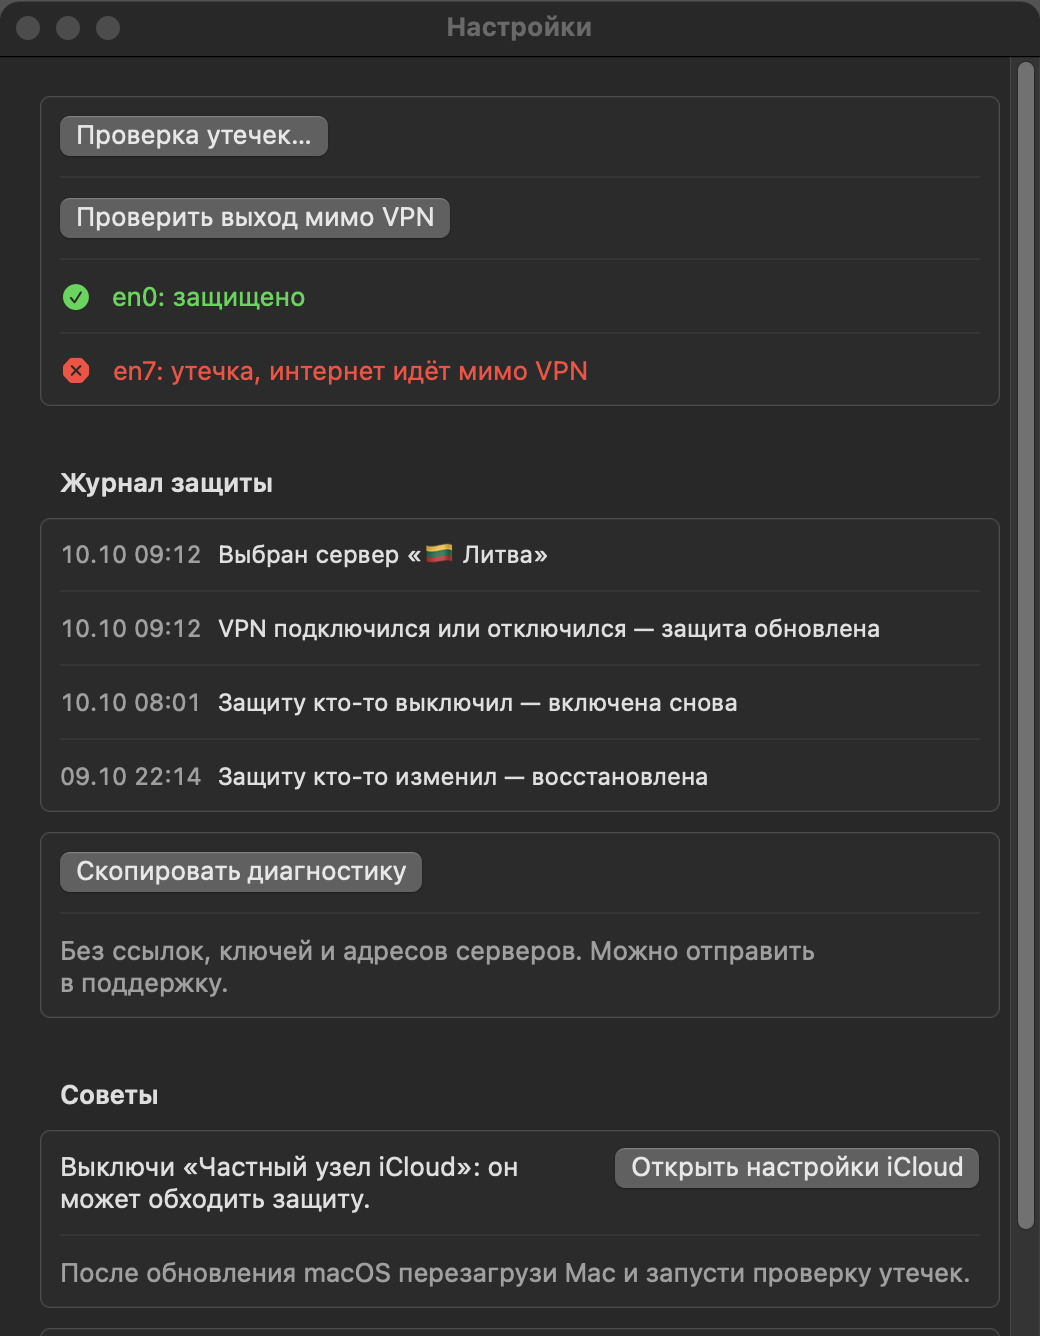
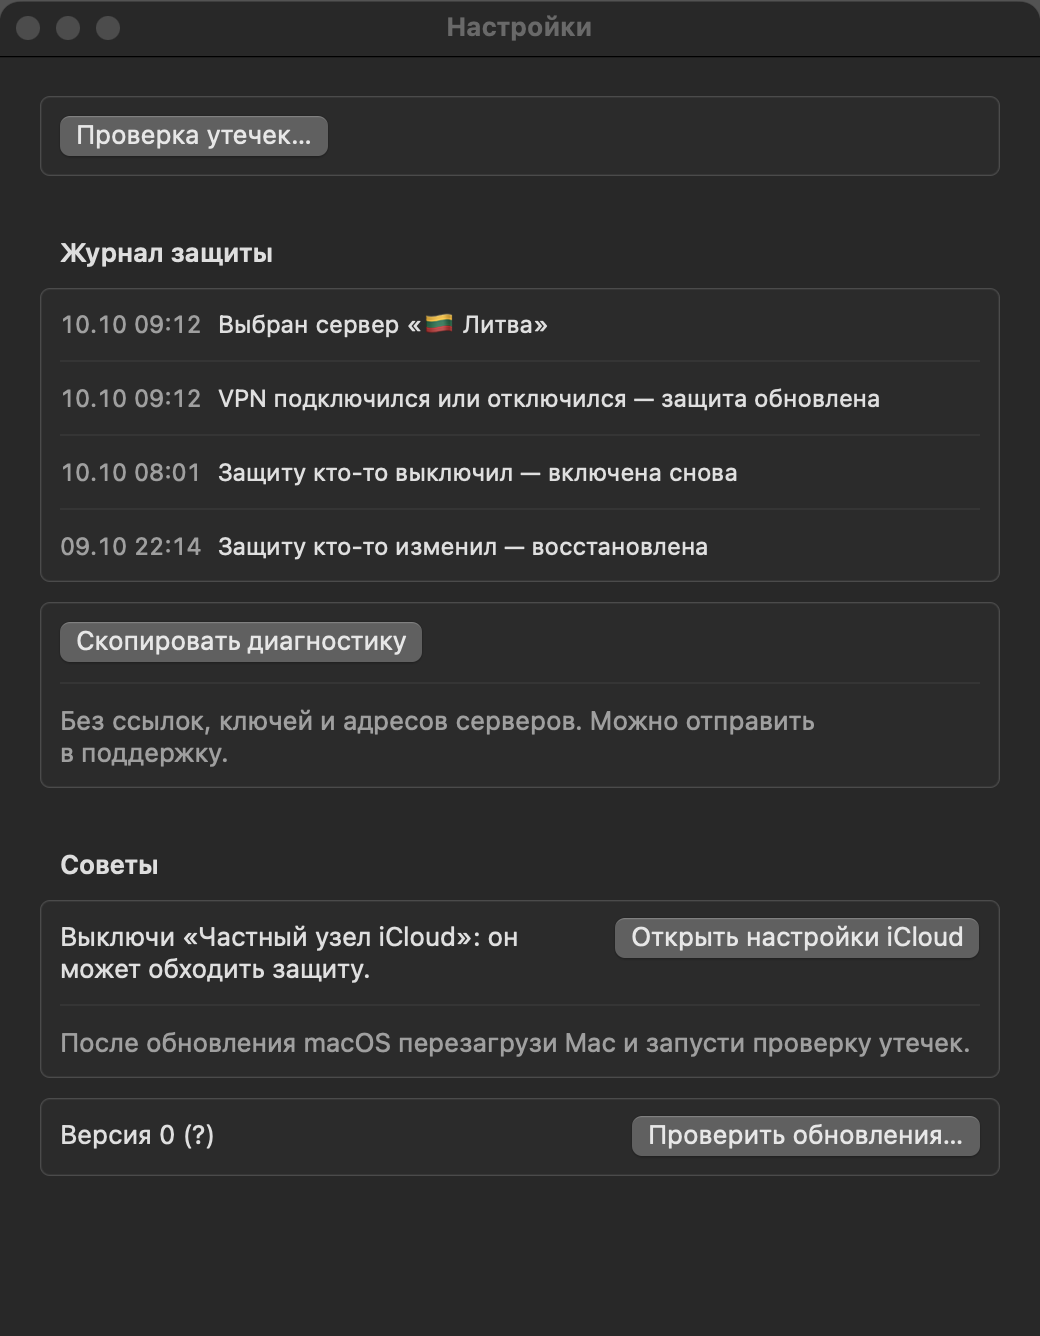
One leak test: the direct-exit probe joins the verdict (С9)
The probe of the physical interfaces moves from Settings into «Проверка
утечек» and runs while protection is on; an interface that reaches the
internet directly is a leak in the same verdict. Settings → Помощь keeps
one button that opens the leak test.

diff --git a/App/KillSwitchControl.swift b/App/KillSwitchControl.swift
@@ -48,9 +48,6 @@ final class KillSwitchControl {
     /// Moves on with every refresh while connecting, so «Подключение затянулось» shows up in time.
     private(set) var clock = Date()
     private(set) var events: [String] = []
-    private(set) var leakResults: [LeakResult] = []
-    private(set) var externalIP: String?
-    private(set) var leakRunning = false
     /// Our own VPN core (mihomo run by the root daemon), see `ks core`.
     private(set) var coreInstalled = false
     private(set) var coreConfigured = false
@@ -76,11 +73,6 @@ final class KillSwitchControl {
     private(set) var testing: Set<String> = []
     static let allGroupsKey = "\u{0}all"
 
-    struct LeakResult: Identifiable {
-        let interface: String
-        let leaked: Bool
-        var id: String { interface }
-    }
     var launchAtLogin: Bool {
         get { SMAppService.mainApp.status == .enabled }
         set {
@@ -773,28 +765,21 @@ final class KillSwitchControl {
         events = Array(Self.readLines("/Library/KillSwitch/events.log").suffix(15))
     }
 
-    /// Tries to reach 1.1.1.1 straight through the physical interfaces, as an ordinary user.
-    /// A reply means the filter has a hole.
-    func checkLeak() {
-        guard !leakRunning else { return }
-        leakRunning = true
-        leakResults = []
-        Task {
-            var interfaces = ["en0"]
-            let route = await Self.exec("/sbin/route", ["-n", "get", "default"]).output
-            if let match = route.firstMatch(of: /interface:[ \t]*([A-Za-z0-9]+)/) {
-                let name = String(match.1)
-                if !name.hasPrefix("utun") && !interfaces.contains(name) { interfaces.append(name) }
-            }
-            for name in interfaces {
-                let result = await Self.exec("/usr/bin/curl", ["-s", "-m", "6", "-o", "/dev/null", "--interface", name, "https://1.1.1.1"])
-                leakResults.append(LeakResult(interface: name, leaked: result.status == 0))
-            }
-            let ip = await Self.exec("/usr/bin/curl", ["-s", "-m", "6", "https://api.ipify.org"]).output
-            externalIP = Self.isPlainIP(ip) ? ip : nil
-            refreshEvents()
-            leakRunning = false
+    /// Part of «Проверка утечек» while protection is on: tries to reach 1.1.1.1 straight through
+    /// the physical interfaces, as an ordinary program. The interfaces that answered are a hole.
+    func probeDirectExits() async -> [String] {
+        var interfaces = ["en0"]
+        let route = await Self.exec("/sbin/route", ["-n", "get", "default"]).output
+        if let match = route.firstMatch(of: /interface:[ \t]*([A-Za-z0-9]+)/) {
+            let name = String(match.1)
+            if !name.hasPrefix("utun") && !interfaces.contains(name) { interfaces.append(name) }
         }
+        var open: [String] = []
+        for name in interfaces {
+            let result = await Self.exec("/usr/bin/curl", ["-s", "-m", "6", "-o", "/dev/null", "--interface", name, "https://1.1.1.1"])
+            if result.status == 0 { open.append(name) }
+        }
+        return open
     }
 
     private func listenForWidget() {

diff --git a/App/Core/LeakCheck.swift b/App/Core/LeakCheck.swift
@@ -95,9 +95,13 @@ enum LeakCheck {
         var ipv6: Address?
         var resolvers: [Resolver]
         var direct: Direct?
+        /// Physical interfaces through which an ordinary program reached the internet directly
+        /// while protection was on (LeakTester probes them only then).
+        var directExits: [String] = []
     }
 
     enum Finding: Equatable {
+        case directExit([String])
         case realIPv4
         case ipv4Mismatch([String])
         case ipv6Leak(String)
@@ -109,13 +113,14 @@ enum LeakCheck {
 
         var isLeak: Bool {
             switch self {
-            case .realIPv4, .ipv4Mismatch, .ipv6Leak, .dnsLeak: true
+            case .directExit, .realIPv4, .ipv4Mismatch, .ipv6Leak, .dnsLeak: true
             case .ipv6Unexpected, .dnsUnknown, .offline, .vpnOff: false
             }
         }
 
         var text: String {
             switch self {
+            case .directExit(let names): "Программы могут выйти в интернет мимо VPN (\(names.joined(separator: ", "))): защита пропускает их напрямую."
             case .realIPv4: "Сайты видят твой настоящий адрес, а не адрес VPN."
             case .ipv4Mismatch(let ips): "Два сервиса видят разные адреса (\(ips.joined(separator: ", "))): часть трафика идёт другим путём."
             case .ipv6Leak(let ip): "IPv6 идёт мимо VPN: сайты видят адрес твоей сети \(ip)."
@@ -148,16 +153,17 @@ enum LeakCheck {
     static func verdict(_ input: Input) -> Verdict {
         var seen: [String] = []
         for case let ip? in input.ipv4 where !seen.contains(ip) { seen.append(ip) }
+        let exits: [Finding] = input.directExits.isEmpty ? [] : [.directExit(input.directExits)]
         if seen.isEmpty, input.exit == nil, input.ipv6 == nil, input.resolvers.isEmpty {
-            return Verdict(findings: [.offline])
+            return Verdict(findings: exits + [.offline])
         }
         guard input.vpnConnected else {
             let home = Direct(ipv4: seen.first ?? input.exit?.ip, ipv6: input.ipv6?.ip,
                               org: input.exit?.org ?? input.ipv6?.org)
-            return Verdict(findings: [.vpnOff], home: home)
+            return Verdict(findings: exits + [.vpnOff], home: home)
         }
         let direct = input.direct
-        var findings: [Finding] = []
+        var findings = exits
         if let home = direct?.ipv4, seen.contains(home) || input.exit?.ip == home { findings.append(.realIPv4) }
         if seen.count > 1 { findings.append(.ipv4Mismatch(seen)) }
 

diff --git a/App/LeakTester.swift b/App/LeakTester.swift
@@ -41,10 +41,17 @@ final class LeakTester {
     }
 
     /// `vpnConnected`: read when the check starts (any VPN tunnel up, ours or another client's).
-    func run(vpnConnected: Bool) async {
+    /// `probe`: the direct-exit check (KillSwitchControl.probeDirectExits), passed only while
+    /// protection is on — then nothing may get out around the VPN.
+    func run(vpnConnected: Bool, probe: (() async -> [String])? = nil) async {
         guard !running else { return }
         running = true
         defer { running = false; step = "" }
+        var directExits: [String] = []
+        if let probe {
+            step = "Проверяю выход мимо VPN…"
+            directExits = await probe()
+        }
         let session = URLSession(configuration: Self.configuration)
         defer { session.finishTasksAndInvalidate() }
 
@@ -61,7 +68,7 @@ final class LeakTester {
         let exit = exit4 ?? report?.exit
 
         let input = LeakCheck.Input(vpnConnected: vpnConnected, ipv4: [ipv4a, exit4?.ip], exit: exit, ipv6: ipv6,
-                                    resolvers: report?.resolvers ?? [], direct: home)
+                                    resolvers: report?.resolvers ?? [], direct: home, directExits: directExits)
         let verdict = LeakCheck.verdict(input)
         if let learnt = verdict.home { saveHome(learnt) }
         result = Result(verdict: verdict, ipv4: [("ipify.org", ipv4a), ("mullvad.net", exit4?.ip)], exit: exit,

diff --git a/App/LeakTestView.swift b/App/LeakTestView.swift
@@ -13,7 +13,10 @@ struct LeakTestView: View {
                 VStack(spacing: 12) {
                     verdictHeader
                     Button {
-                        Task { await tester.run(vpnConnected: control.vpnUp) }
+                        Task {
+                            await tester.run(vpnConnected: control.vpnUp,
+                                             probe: control.state == .on ? { await control.probeDirectExits() } : nil)
+                        }
                     } label: {
                         Text(tester.running ? "Проверяю…" : "Проверить").frame(maxWidth: .infinity)
                     }
@@ -127,7 +130,7 @@ struct LeakTestView: View {
             Image(systemName: "shield.lefthalf.filled").font(.system(size: 44)).foregroundStyle(.secondary)
                 .accessibilityHidden(true)
             Text("Проверка утечек").font(.title2.bold())
-            Text("Проверит, какой адрес видят сайты по IPv4 и IPv6 и кто узнаёт для тебя адреса сайтов.")
+            Text("Проверит, может ли что-то выйти мимо VPN, какой адрес видят сайты и кто узнаёт для тебя адреса сайтов.")
                 .font(.callout).foregroundStyle(.secondary).multilineTextAlignment(.center)
                 .fixedSize(horizontal: false, vertical: true)
         }

diff --git a/docs/ux/tools/Render.swift b/docs/ux/tools/Render.swift
@@ -429,6 +429,17 @@ func main() {
         w.tester.homeDate = Date()
         leak("34-leaktest-vpn-off", w, height: 760)
     }
+    do { // 35 the direct-exit probe found a hole while protection is on
+        let w = World()
+        w.tester.home = LeakCheck.Direct(ipv4: "5.6.7.112", ipv6: nil, org: "Beltelecom")
+        w.tester.result = LeakTester.Result(
+            verdict: LeakCheck.Verdict(findings: [.directExit(["en0"])]),
+            ipv4: [("api.ipify.org", "1.2.3.10"), ("am.i.mullvad.net", "1.2.3.10")],
+            exit: LeakCheck.Address(ip: "1.2.3.10", country: "Литва", org: "UAB Cherry Servers"),
+            ipv6: nil, resolvers: [LeakCheck.Resolver(ip: "162.158.180.12", country: "Lithuania", org: "Cloudflare")],
+            at: Date())
+        leak("35-leaktest-direct-exit", w, height: 820)
+    }
 
     // MARK: settings tabs (each tab drawn on its own; the real window shows them as toolbar tabs)
 
@@ -481,7 +492,6 @@ func main() {
     }
     do {
         let w = World()
-        w.control.leakResults = [.init(interface: "en0", leaked: false), .init(interface: "en7", leaked: true)]
         w.control.events = ["2026-10-09 22:14:03 rules were changed or flushed: reloading",
                             "2026-10-10 08:01:11 pf was disabled: reloading",
                             "2026-10-10 09:12:45 tunnels changed (utun4 utun6): reloading",

diff --git a/Tests/LeakCheckTests.swift b/Tests/LeakCheckTests.swift
@@ -143,4 +143,23 @@ final class LeakCheckTests: XCTestCase {
             XCTAssertFalse(finding.text.contains("http"))
         }
     }
+
+    /// spec С9: the direct-exit probe of the old «Проверка» tab is part of the one verdict.
+    func testDirectExitIsALeak() {
+        var data = input()
+        data.directExits = ["en0"]
+        let verdict = LeakCheck.verdict(data)
+        XCTAssertEqual(verdict.findings, [.directExit(["en0"])])
+        XCTAssertFalse(verdict.clean)
+        XCTAssertEqual(LeakCheck.Finding.directExit(["en0"]).text,
+                       "Программы могут выйти в интернет мимо VPN (en0): защита пропускает их напрямую.")
+    }
+
+    func testDirectExitWithoutVPNIsStillALeak() {
+        var data = input(connected: false)
+        data.directExits = ["en0", "en7"]
+        let verdict = LeakCheck.verdict(data)
+        XCTAssertEqual(verdict.findings, [.directExit(["en0", "en7"]), .vpnOff])
+        XCTAssertEqual(verdict.title, "Есть утечки")
+    }
 }

diff --git a/App/SettingsView.swift b/App/SettingsView.swift
@@ -602,13 +602,6 @@ private struct HelpSettings: View {
         SettingsForm {
             Section {
                 LeakTestView.OpenButton()
-                Button(control.leakRunning ? "Проверяю…" : "Проверить выход мимо VPN") { control.checkLeak() }
-                    .disabled(control.leakRunning)
-                ForEach(control.leakResults) { result in
-                    Label(result.leaked ? "\(result.interface): утечка, интернет идёт мимо VPN" : "\(result.interface): защищено",
-                          systemImage: result.leaked ? "xmark.octagon.fill" : "checkmark.circle.fill")
-                        .foregroundStyle(result.leaked ? .red : .green)
-                }
             }
             Section("Журнал защиты") {
                 let entries = control.events.reversed().compactMap(ProtectionLog.entry)
